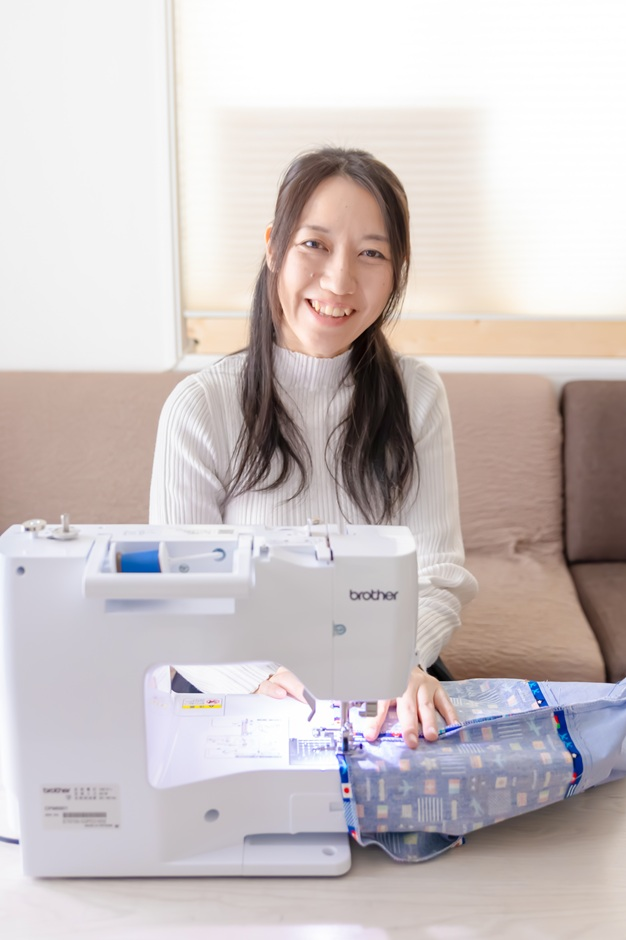
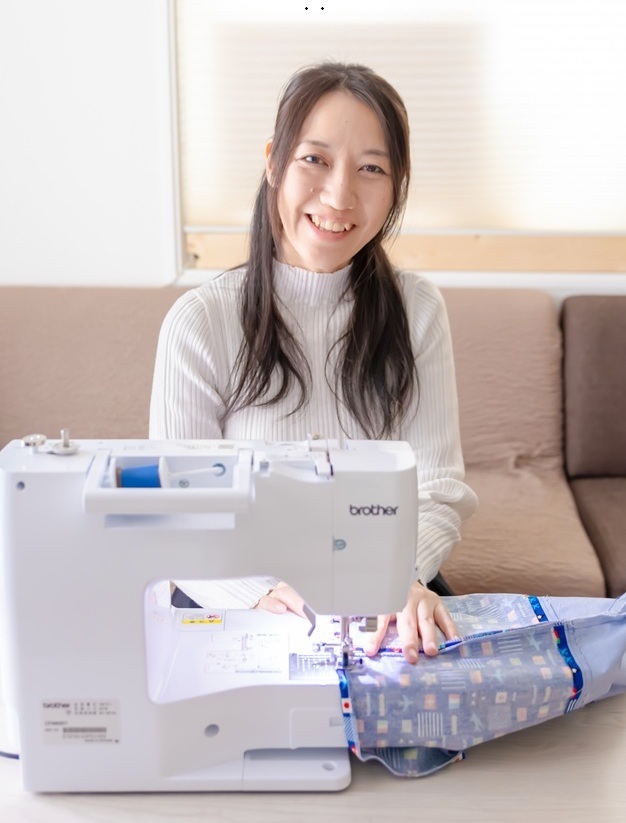
Add files via upload

diff --git a/works.html b/works.html
@@ -24,11 +24,11 @@
     <h2 class="section-title">はじめての方に</h2>
     <div class="grid-3">
       <div class="card">
-        <h3>体験レッスンポーチ</h3>
-        <p>透明ケース（8cm×6cm・厚み5mmまで）に好きな小物を閉じ込めて、初めてのミシンにチャレンジしてみましょう。</p>
+        <h3>窓付きミニポーチ</h3>
+        <p>透明ケースに好きな小物（8cm×6cm・厚み5mmまで）を閉じ込めて、初めてのミシンにチャレンジしてみましょう。</p>
       </div>
       <div class="card">
-        <h3>バッグ・ランチョンマット装飾</h3>
+        <h3>装飾体験</h3>
         <p>バッグやランチョンマットに刺しゅうやワッペンなどの装飾をプラスするところから始められます。</p>
       </div>
       <div class="card">
@@ -67,177 +67,6 @@
       <p>ヘアバンド、シュシュ／ドゥラーレタッセル／刺しゅう小物／フェルト小物／レジン小物／タティングレース／ビーズアクセサリー／マニキュアフラワー／エシカルネイル／アルコールインクアートのキーホルダー・ハガキ</p>
     </div>
   </div>
-
-
-
-
-
-最近、小中学校で給食の白衣を使わない学校が増えてきましたね??
-
-感染症対策という面もありますし、
-家庭で使う柔軟剤等の匂いにより健康被害が起こる、という場合もあるということで
-各自で持参する学校が多くなってきました。
-
-当教室のあるつくば市でも、基本的にエプロン・三角巾は持参するルールになっています??
-
-
-
-量販店でもお子様向けエプロンの販売はありますが、
-
-・お子さまのサイズに合わない
-・種類が少なくてお子様の気に入るものがない
-・リボン結びできないので着られない
-
-など、色々なお声を聴きます??
-
-
-
-そんなとき、ハンドメイドならお子様の体格・好み・成長具合に合わせたエプロンの制作ができます??
-お子さまご自身が選んだ生地で作るエプロンなら、より給食の時間が楽しみになりそうですね??
-
-
-
-当教室では6歳からご参加いただけますので、
-おうちの方が作っていただくことはもちろん、自分で使うエプロンを作ることも◎
-
-小・中学校でずっと使うもの。
-切り替えのタイミングなどでぜひご利用ください??
-
-
-
-通常レッスン内でお作りいただけます。
-エプロン＆三角巾合わせて1回のレッスンで完成いたします。
-
-
-
-
-
-
-
-
-
-◆リボンタッセル　～durare Tassel by hillwin～◆
-最近流行りの推し活、楽しんでいらっしゃる方も多いのではないでしょうか？？
-推しカラーの小物を手作りするというのも推し活を楽しめる1つかと思います??
-
-リボンの色を事前にお選びいただく必要があるため、ご予約はご受講1週間前までにお願いいたします??
-※直前のご予約でも承りますが、お選びいただける色が少なくなることご了承ください。
-※必要な材料などはご準備いたしますので手ぶらでお越しください
-
-こちらのレッスンは講師・販売資格も取得可能なレッスンとなります
-・ハンドメイド販売を始めたい方
-・おうち教室をやりたい方
-資格取得後のサポートもいたしますので、お気軽にお問い合わせください。 
-
-
-
-
-
-◆アルコールインクアートレッスン◆
-春、新生活を始められる方も多い季節
-大人も新しい趣味を始めてみませんか？？
-※材料などは取り揃えておりますので、手ぶらでお越しください
-
-◇アルコールインクアートとは？？◇
-
-アルコールインクアートとは、鮮やかな色彩と自由な表現が魅力の初心者の方でも簡単に楽しめるアートです
-
-インクを垂らして少し動かすだけで、色が自然に広がり、混ざり合い、時にはとても幻想的な柄を生み出します。
-初心者の方でも、少しのコツを掴めば、素晴らしい作品が出来上がります
-
-レッスンでは、特殊な紙にアートをしていただき、
-出来上がったアートは、キーホルダー加工してお持ち帰りいただきます。
-※ご希望により加工なしでそのままお持ち帰りもできます
-
-初めての方でも簡単に楽しめるアートです。
-こちらはお子様のご受講も可能です。ぜひ一度ご体験ください
-
-
-
-「通園通学グッズ制作」
-レッスンバッグ、お着替え袋や上履き入れなどをお作りいただきます。
-材料はご自身でご用意いただく必要があります。
-通学通園先で指定のサイズがある場合には事前にお知らせいただけましたら、指定サイズに変更した型紙をお作りいたします。
-お子様の入園入学や進級に合わせていかがでしょうか？
-
-
-
-「販売がしたい方向け」
-ゆくゆくは制作したものを販売したい、という方向けに、細かく指導＆実践しながら制作を進めるレッスンです。
-制作の基礎はもちろん、速く正確な縫製のためのポイントもご説明します。
-販売のための価格商品設計、ターゲット・コンセプト決めやSNS運用やマーケティング基礎まで学べるので、趣味だけで終わらせたくない方にオススメです。
-初回開始前に、小物制作かお洋服制作か、などざっくりした方向性を決めていただきます。
-
-受講後にわからない部分があっても、
-公式LINEやメールで質問可能なので安心！
-しっかり学んで自分のスキルとして身につけましょう?♪
-
-
-
-「赤ちゃんお迎えセット制作」
-
-これから生まれてくるお子様、またお孫様のためにいかがでしょうか？
-スタイ、フェルトおもちゃ、産後の赤ちゃんのお祝い着、親子・兄弟お揃いの普段着などをお作りいただけます。
-※受講日の１週間前までにお申し込みください
-※ミシンだけでなく手縫いで制作するものが含まれる場合がございます。
-
-赤ちゃんお迎えセット
-これから生まれてくるお子様、
-お孫様のために手作りでお支度を。
-
-新たな家族のために準備するものはたくさんありますよね。
-もちろん既製品にもたくさん可愛いもの・かっこいいものはありますが、いくつかだけでも手作りのものがあると記念にもなります♪
-おなかの赤ちゃんにお話しながらゆっくり作ってみませんか？
-
-＜基本の制作内容＞
-スタイ（よだれかけ）
-フェルトおもちゃ
-ベビードレス
-ロンパース
-
-全て型紙をお渡しいたしますので、ご自宅で追加をお作りいただくことも◎
-基本はベビードレスやロンパースをお作りいただきますが、上の兄弟姉妹のお揃い着や親子のリンクコーデに変更もできます。
-また双子ちゃんのお支度の場合にも対応可能です。
-
-
-
-「ウェディング準備」
-大切な日の準備を手作りでより思い出深く。
-結婚式で必要なリングピローや、２次会用ワンピース、新生活で使えるお揃いの小物などをお作りいただけます。
-※受講日の１週間前までにお申し込みください
-※ミシンだけでなく手縫いで制作するものが含まれる場合がございます。
-
-記念となるウェディングに、自分の手で作るアイテムを
-
-結婚式で使うアイテムや新生活で使うものには、手作りできるものも色々！
-
-リングピローや2次会用のワンピース
-
-ウェルカムドールのお洋服やウェルカムリース
-
-新生活で使うエプロンなどなど
-
-自分の結婚式に好きを詰め込んだものを作りたい方にも、
-
-大切な家族・友人のために心を込めたプレゼントとして贈りたい方にもオススメです
-
-リングピロー制作（１回120分）
-ウェルカムリース制作（１回120分）
-ウェルカムドールお洋服（全２回１回120分）
-ドレス＆タキシード制作（全２回１回120分）
-２次会用ワンピース制作（全２回１回120分）
-エプロン制作（１回120分）
-ウェディングドレス制作（全４回１回120分）
-
-こちらのメニューにないものをお作りになりたい場合には、別途ご相談くださいませ。
-
-
-
-受講後にわからない部分がある場合も、お気軽にLINEでご質問ください
-
-
-
-
   </main>
   <footer id="footer-include"></footer>
   <script src="./common.js"></script>

diff --git a/tools.html b/tools.html
@@ -23,9 +23,7 @@
   <div class="container">
     <h2 class="section-title">設備のご紹介</h2>
     <div class="grid-2" style="align-items: center;">
-      <div class="photo-frame" style="aspect-ratio: 4/3;">
-        <img src="./images/tools_img/machine_and_notions.jpg" alt="ミシンと裁断マット、糸巻きラック">
-      </div>
+      <div class="photo-frame"><img src="img/tool.jpg" alt="ミシンと裁断マット"></div>
       <div>
         <div class="card" style="margin-bottom: 20px;">
           <h3>ミシン・裁断まわり</h3>
@@ -39,15 +37,18 @@
     </div>
 
     <h2 class="section-title">素材のご紹介</h2>
-    <div class="grid-2">
-      <div class="card">
-        <h3>豊富な型紙</h3>
-        <p>大人服用・子ども服用から、ポーチなどの小物まで、幅広いジャンルの型紙を豊富にご用意。初心者から上級者まで、自由に挑戦していただけます。</p>
+    <div class="grid-2" style="align-items: center;">
+      <div>
+        <div class="card" style="margin-bottom: 20px;">
+          <h3>豊富な型紙</h3>
+          <p>大人服用・子ども服用から、ポーチなどの小物まで、幅広いジャンルの型紙を豊富にご用意。初心者から上級者まで、自由に挑戦していただけます。</p>
+        </div>
+        <div class="card">
+          <h3>多彩な生地</h3>
+          <p>教室で選べる豊富な生地から、お気に入りの色や質感を選んでオリジナルの作品に仕上げられます。町の生地屋さんではなかなか見かけないニット生地なども取り揃えています。</p>
+        </div>
       </div>
-      <div class="card">
-        <h3>多彩な生地</h3>
-        <p>教室で選べる豊富な生地から、お気に入りの色や質感を選んでオリジナルの作品に仕上げられます。町の生地屋さんではなかなか見かけないニット生地なども取り揃えています。</p>
-      </div>
+      <div class="photo-frame"><img src="img/material.jpg" alt="様々な素材"></div>
     </div>
 
     <h2 class="section-title">装飾用素材</h2>

diff --git a/class.html b/class.html
@@ -25,17 +25,19 @@
     <p class="section-message">
       大きな窓から陽の入る明るい教室です
     </p>
-    <div class="grid-2" style="align-items: center;">
+    <div class="grid-2" style="align-items: center; margin-bottom: 10px;">
       <div class="photo-frame"><img src="img/class.jpg" alt="大きな窓から陽の入る明るい教室"></div>
+      <div class="photo-frame"><img src="img/exterior.jpg" alt="駐車場・駐輪場・目印の看板"></div>
+    </div>
+    <div class="grid-2" style="align-items: center;">
       <div>
         <div class="card" style="margin-bottom: 20px;">
           <h3>所在地</h3>
-          <p>〒305-0031<br>茨城県つくば市吾妻4-18-2 <a href="https://maps.app.goo.gl/j2GwWSqptaYHpM5c6" target="_blank">[Google Map から確認]</a></p>
-          <p style="margin-top: 10px;">つくばエクスプレス「つくば駅」より1.1km（徒歩15分）</p>
+          <p>〒305-0031　茨城県つくば市吾妻4-18-2 <a href="https://maps.app.goo.gl/j2GwWSqptaYHpM5c6" target="_blank">[Google Map から確認]</a>　つくばエクスプレス「つくば駅」より1.1km（徒歩15分）</p>
         </div>
         <div class="card">
           <h3>駐車場・駐輪場</h3>
-          <p>駐車場は東大通りから反対側（裏側）にございます。ご利用の際は事前にご連絡ください。駐輪場もございます。</p>
+          <p>駐車場と駐輪場は東大通りから反対側（裏側）にございます。レッスン中に駐車場をご利用の際は事前にご連絡ください。</p>
         </div>
       </div>
     </div>
